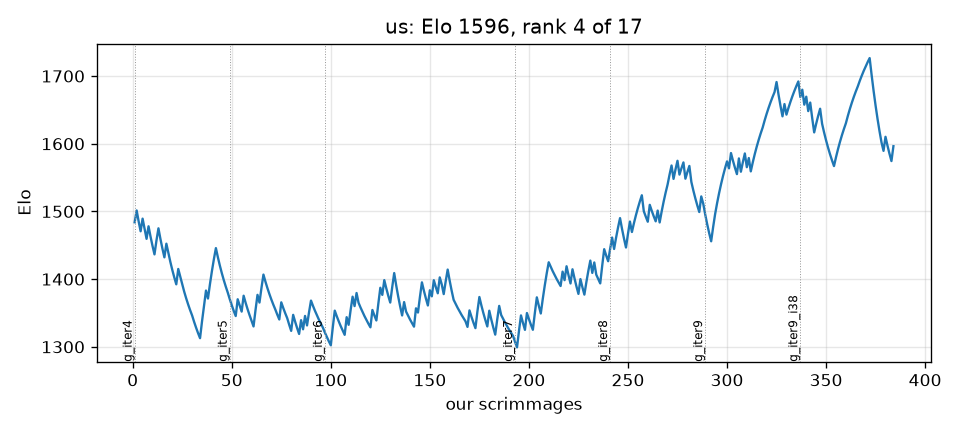
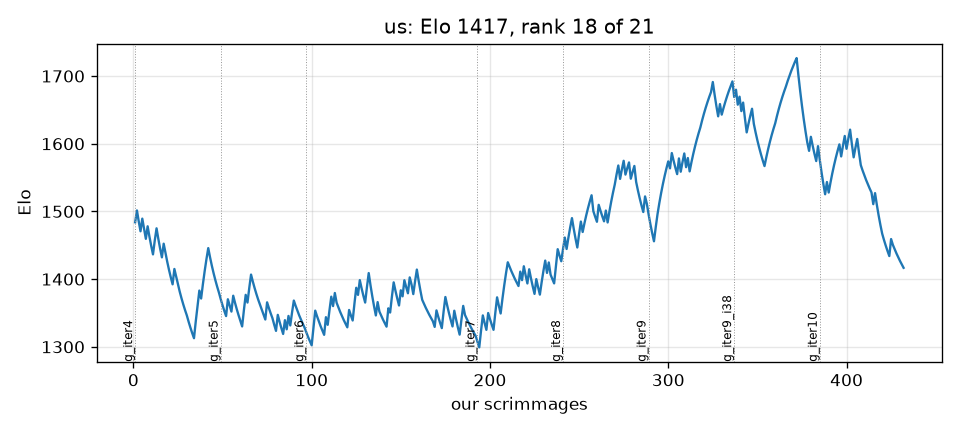
g_iter10 ladder: 5/24 on the shared four, identical to g_iter9
The block reads 15/48 against the previous 54.2%, and almost none of that is
the bot: against the four opponents present in both blocks the record is
identical at 5/24, with Scott-Poole and rqi3 up one each and rzhan11 down
two. The headline drop is the field, whose newcomers went 10/24 here against
a previous batch that included two swept 6-0.

So Iteration 40 is a 63.5% mirror accept with no measurable ladder effect,
which is now three of the last four accepts. The gate and the contest signal
are diverging and that is the method's main open problem.

This block also exposes a measurement flaw: with a rotating pool the
intersection between consecutive blocks changes, so those per-block rates
cannot be chained. Either hold the rated half fixed or compare on Elo.

Claude-Session: https://claude.ai/code/session_01VgeNHsn9ncLsLui8RaK6L7

diff --git a/BENCHMARK.md b/BENCHMARK.md
@@ -117,7 +117,7 @@ above the 20% line, so every bot we have played may be reviewed.
 | `BSreenivas0713.auxMusketeerPlayer` | BSreenivas0713_Battlecode2021 (d24af14) | - | - | untested |  |
 | `BSreenivas0713.ecs` | BSreenivas0713_Battlecode2021 (d24af14) | - | - | untested |  |
 | `BSreenivas0713.musketeerPlayer` | BSreenivas0713_Battlecode2021 (d24af14) | - | - | untested |  |
-| `BSreenivas0713.musketeerplayerfinal` | BSreenivas0713_Battlecode2021 (d24af14) | 0 | 5 | locked | 0 0 0 |
+| `BSreenivas0713.musketeerplayerfinal` | BSreenivas0713_Battlecode2021 (d24af14) | 17 | 6 | locked | 0 0 0 17 |
 | `BSreenivas0713.musketeerplayerjan8` | BSreenivas0713_Battlecode2021 (d24af14) | - | - | untested |  |
 | `BSreenivas0713.musketeerplayerpostqual` | BSreenivas0713_Battlecode2021 (d24af14) | - | - | untested |  |
 | `BSreenivas0713.musketeerplayerqual` | BSreenivas0713_Battlecode2021 (d24af14) | - | - | untested |  |
@@ -147,7 +147,7 @@ above the 20% line, so every bot we have played may be reviewed.
 | `ChiragKalra.gen2` | ChiragKalra_battlecode (ad1373f) | - | - | untested |  |
 | `ChiragKalra.gen3` | ChiragKalra_battlecode (ad1373f) | - | - | untested |  |
 | `ChiragKalra.gen4` | ChiragKalra_battlecode (ad1373f) | - | - | untested |  |
-| `ChiragKalra.gen5` | ChiragKalra_battlecode (ad1373f) | 71 | 14 | peer | 71 |
+| `ChiragKalra.gen5` | ChiragKalra_battlecode (ad1373f) | 100 | 6 | peer(>90 once) | 71 100 |
 | `IvanGeffner.thirtyone` | IvanGeffner_battlecode2021 (1471e6a) | 0 | 6 | locked | 0 0 0 |
 | `JCRaymond.bot.tournament.sprint` | JCRaymond_battlecode-2021 (14e4015) | 100 | 6 | peer(>90 once) | 100 |
 | `JCRaymond.donothingbot` | JCRaymond_battlecode-2021 (14e4015) | - | - | untested |  |
@@ -171,7 +171,7 @@ above the 20% line, so every bot we have played may be reviewed.
 | `OliverMKing.oliverrushbot2` | OliverMKing_battlecode-2021 (14e4015) | - | - | untested |  |
 | `OliverMKing.templatebot` | OliverMKing_battlecode-2021 (14e4015) | - | - | untested |  |
 | `SLaGrave.AlphaCentauri` | SLaGrave_battlecode21 (9ae0ff4) | 100 | 6 | peer(>90 once) | 100 |
-| `Scott-Poole.spright8` | Scott-Poole_battlecode21 (57f898a) | 50 | 6 | peer | 7 12 39 17 25 50 33 33 50 |
+| `Scott-Poole.spright8` | Scott-Poole_battlecode21 (57f898a) | 67 | 6 | peer | 7 12 39 17 25 50 33 33 50 67 |
 | `Sihal3.cavShieldv05` | Sihal3_cavshield (7a90425) | - | - | untested |  |
 | `Sihal3.cavShieldv1` | Sihal3_cavshield (7a90425) | - | - | untested |  |
 | `Sihal3.cavShieldv2` | Sihal3_cavshield (7a90425) | - | - | untested |  |
@@ -216,7 +216,7 @@ above the 20% line, so every bot we have played may be reviewed.
 | `TylerQube.sandmenplayer` | TylerQube_sandmen-battlecode21 (522a5fe) | 100 | 6 | peer(>90 once) | 100 |
 | `Victoriano012.SprintBot2` | Victoriano012_BattleCode-2021 (2517f10) | 17 | 6 | locked | 14 38 17 |
 | `VittalT.donothingplayer` | VittalT_Battlecode2021-EZMoney (49bc713) | - | - | untested |  |
-| `VittalT.final_usqualplayer3_subm` | VittalT_Battlecode2021-EZMoney (49bc713) | 17 | 6 | locked | 7 12 17 |
+| `VittalT.final_usqualplayer3_subm` | VittalT_Battlecode2021-EZMoney (49bc713) | 33 | 6 | target | 7 12 17 33 |
 | `VittalT.pathtestingplayer` | VittalT_Battlecode2021-EZMoney (49bc713) | - | - | untested |  |
 | `VittalT.simpleplayer1` | VittalT_Battlecode2021-EZMoney (49bc713) | - | - | untested |  |
 | `VittalT.simpleplayer2` | VittalT_Battlecode2021-EZMoney (49bc713) | - | - | untested |  |
@@ -291,7 +291,7 @@ above the 20% line, so every bot we have played may be reviewed.
 | `awesomelemonade.pdefense2` | awesomelemonade_battlecode-2021 (e9c4afc) | - | - | untested |  |
 | `awesomelemonade.ppbot` | awesomelemonade_battlecode-2021 (e9c4afc) | - | - | untested |  |
 | `awesomelemonade.spreadout` | awesomelemonade_battlecode-2021 (e9c4afc) | - | - | untested |  |
-| `awesomelemonade.sprint1bot` | awesomelemonade_battlecode-2021 (e9c4afc) | 0 | 6 | locked | 0 25 0 0 0 17 33 0 |
+| `awesomelemonade.sprint1bot` | awesomelemonade_battlecode-2021 (e9c4afc) | 0 | 6 | locked | 0 25 0 0 0 17 33 0 0 |
 | `awesomelemonade.trollbigps` | awesomelemonade_battlecode-2021 (e9c4afc) | - | - | untested |  |
 | `awesomelemonade.v1_10` | awesomelemonade_battlecode-2021 (e9c4afc) | - | - | untested |  |
 | `awesomelemonade.waves` | awesomelemonade_battlecode-2021 (e9c4afc) | - | - | untested |  |
@@ -350,7 +350,7 @@ above the 20% line, so every bot we have played may be reviewed.
 | `iyzg.sbot14` | iyzg_battlecode21 (13595c5) | - | - | untested |  |
 | `iyzg.sbot15` | iyzg_battlecode21 (13595c5) | - | - | untested |  |
 | `iyzg.sbot16` | iyzg_battlecode21 (13595c5) | - | - | untested |  |
-| `iyzg.sbot17` | iyzg_battlecode21 (13595c5) | 17 | 6 | locked | 7 12 17 |
+| `iyzg.sbot17` | iyzg_battlecode21 (13595c5) | 17 | 6 | locked | 7 12 17 17 |
 | `iyzg.sbot2` | iyzg_battlecode21 (13595c5) | - | - | untested |  |
 | `iyzg.sbot3` | iyzg_battlecode21 (13595c5) | - | - | untested |  |
 | `iyzg.sbot4` | iyzg_battlecode21 (13595c5) | - | - | untested |  |
@@ -510,7 +510,7 @@ above the 20% line, so every bot we have played may be reviewed.
 | `rqi3.pathfindingtest` | rqi3_battlecode-2021 (f59941b) | - | - | untested |  |
 | `rqi3.pold` | rqi3_battlecode-2021 (f59941b) | - | - | untested |  |
 | `rqi3.politician_tester` | rqi3_battlecode-2021 (f59941b) | - | - | untested |  |
-| `rqi3.qualification_bot` | rqi3_battlecode-2021 (f59941b) | 0 | 6 | locked | 0 0 0 |
+| `rqi3.qualification_bot` | rqi3_battlecode-2021 (f59941b) | 17 | 6 | locked | 0 0 0 17 |
 | `ryanbai1412.antimuckrush` | ryanbai1412_Battlecode2021 (2ffbfa8) | - | - | untested |  |
 | `ryanbai1412.eco` | ryanbai1412_Battlecode2021 (2ffbfa8) | - | - | untested |  |
 | `ryanbai1412.sprint_0` | ryanbai1412_Battlecode2021 (2ffbfa8) | 17 | 6 | locked | 0 17 |
@@ -518,7 +518,7 @@ above the 20% line, so every bot we have played may be reviewed.
 | `rzhan11.muckspam` | rzhan11_Battlecode2021 (f21c274) | - | - | untested |  |
 | `rzhan11.newday` | rzhan11_Battlecode2021 (f21c274) | - | - | untested |  |
 | `rzhan11.sprint` | rzhan11_Battlecode2021 (f21c274) | - | - | untested |  |
-| `rzhan11.sprint2` | rzhan11_Battlecode2021 (f21c274) | 33 | 6 | target | 0 11 0 8 33 17 33 33 |
+| `rzhan11.sprint2` | rzhan11_Battlecode2021 (f21c274) | 0 | 6 | locked | 0 11 0 8 33 17 33 33 0 |
 | `rzhan11.template` | rzhan11_Battlecode2021 (f21c274) | - | - | untested |  |
 | `rzhan11.wander_defense` | rzhan11_Battlecode2021 (f21c274) | - | - | untested |  |
 | `saivivekvenna.Ba_ba_booie` | saivivekvenna_BattleCode-2021 (636ec61) | 100 | 6 | peer(>90 once) | 100 |

diff --git a/progress/ELO.md b/progress/ELO.md
@@ -1,25 +1,29 @@
 # Elo ladder
 
-384 scrimmages (ours only); K=32 from 1500; our team is **us**: rank 4 of 17 rated bots, Elo 1596, 384 games; 49 bots not yet met.
+432 scrimmages (ours only); K=32 from 1500; our team is **us**: rank 18 of 21 rated bots, Elo 1417, 432 games; 45 bots not yet met.
 
 | rank | bot | Elo | games | W-L (theirs) |
 |---|---|---|---|---|
-| 1 | awesomelemonade.sprint1bot | 1763 | 48 | 44-4 |
-| 2 | rzhan11.sprint2 | 1689 | 48 | 40-8 |
-| 3 | rqi3.qualification_bot | 1625 | 6 | 6-0 |
-| 4 | **us** | 1596 | 384 | 158-226 |
-| 5 | Scott-Poole.spright8 | 1560 | 48 | 32-16 |
-| 6 | StoneT2000.sprinttuna | 1531 | 6 | 3-3 |
-| 7 | jmerle.camel_case_v7_sprint_2 | 1463 | 48 | 26-22 |
-| 8 | naalit.mukrush | 1458 | 6 | 0-6 |
-| 9 | unai-gurbindo.camelmanplayer | 1451 | 6 | 0-6 |
-| 10 | raytran.dlmoreram010921 | 1448 | 6 | 0-6 |
-| 11 | jjtippetts.influencerforceplayer | 1437 | 6 | 0-6 |
-| 12 | qawsedrftgzh.battlecode2021 | 1435 | 6 | 0-6 |
-| 13 | iliao2345.attacker | 1429 | 36 | 22-14 |
-| 14 | astelmach20.piedPiper | 1422 | 6 | 0-6 |
-| 15 | 123kevinlee.atomFinalQualifier | 1414 | 36 | 21-15 |
-| 16 | max-titov.sprintplayer | 1411 | 36 | 16-20 |
-| 17 | arya-k.quals_v1 | 1369 | 36 | 16-20 |
+| 1 | awesomelemonade.sprint1bot | 1803 | 54 | 50-4 |
+| 2 | rzhan11.sprint2 | 1723 | 54 | 46-8 |
+| 3 | rqi3.qualification_bot | 1641 | 12 | 11-1 |
+| 4 | BSreenivas0713.musketeerplayerfinal | 1569 | 6 | 5-1 |
+| 5 | iyzg.sbot17 | 1561 | 6 | 5-1 |
+| 6 | VittalT.final_usqualplayer3_subm | 1552 | 6 | 4-2 |
+| 7 | Scott-Poole.spright8 | 1538 | 54 | 34-20 |
+| 8 | StoneT2000.sprinttuna | 1531 | 6 | 3-3 |
+| 9 | jmerle.camel_case_v7_sprint_2 | 1463 | 48 | 26-22 |
+| 10 | naalit.mukrush | 1458 | 6 | 0-6 |
+| 11 | unai-gurbindo.camelmanplayer | 1451 | 6 | 0-6 |
+| 12 | raytran.dlmoreram010921 | 1448 | 6 | 0-6 |
+| 13 | jjtippetts.influencerforceplayer | 1437 | 6 | 0-6 |
+| 14 | qawsedrftgzh.battlecode2021 | 1435 | 6 | 0-6 |
+| 15 | iliao2345.attacker | 1429 | 36 | 22-14 |
+| 16 | ChiragKalra.gen5 | 1429 | 6 | 0-6 |
+| 17 | astelmach20.piedPiper | 1422 | 6 | 0-6 |
+| 18 | **us** | 1417 | 432 | 173-259 |
+| 19 | 123kevinlee.atomFinalQualifier | 1414 | 36 | 21-15 |
+| 20 | max-titov.sprintplayer | 1411 | 36 | 16-20 |
+| 21 | arya-k.quals_v1 | 1369 | 36 | 16-20 |
 
-Not yet met (1500 until their first game against us): Ahhorse1.WinstonPlayer, Aryan34.bot, Aryo-Patel.finalBot, BSreenivas0713.musketeerplayerfinal, BattlecodeTeam4.robotalpha, BoluAdubi.bot1, BryceKan3.bot.tournament.sprint, ChiragKalra.gen5, IvanGeffner.thirtyone, JCRaymond.bot.tournament.sprint, JasonYe4273.finals, Mahpare.hackatrainee_v1, OliverMKing.bot.tournament.sprint, SLaGrave.AlphaCentauri, Sihal3.cavShieldv705, TeamSerpentine.mars, Techno-coder.muckrakers, TylerQube.sandmenplayer, Victoriano012.SprintBot2, VittalT.final_usqualplayer3_subm, abhishekshree.bot2, aidan-mundy.final_usqualplayer3_subm, alextheimer.player, ama29.v6, angelaloh09.camelmanplayer, anshgs.ho4, davidfang00.Rushbot3, diegorod9000.Newcomer, dominicmkennedy.playerj3, edlwang.sprint2, ehiggins98.initialbot, evan-schott.bugplayer, iyzg.sbot17, jay20162016.ecobot, mama4294.Maloneplayer, mhahn2003.finals, mhbtz1.presprint, mvpatel2000.biden, nickel-dime.piedPiper, nsortur.piedPiper, paulmure.sprintplayer, pranayagra.finalbot11, ryanbai1412.sprint_0, saivivekvenna.Ba_ba_booie, sasank02.framework3_mr_density, thevaliantthird.bot1, winkelmantanner.tannerplayer, woodstockcs.fanandflag, wstan2001.boundfinder
+Not yet met (1500 until their first game against us): Ahhorse1.WinstonPlayer, Aryan34.bot, Aryo-Patel.finalBot, BattlecodeTeam4.robotalpha, BoluAdubi.bot1, BryceKan3.bot.tournament.sprint, IvanGeffner.thirtyone, JCRaymond.bot.tournament.sprint, JasonYe4273.finals, Mahpare.hackatrainee_v1, OliverMKing.bot.tournament.sprint, SLaGrave.AlphaCentauri, Sihal3.cavShieldv705, TeamSerpentine.mars, Techno-coder.muckrakers, TylerQube.sandmenplayer, Victoriano012.SprintBot2, abhishekshree.bot2, aidan-mundy.final_usqualplayer3_subm, alextheimer.player, ama29.v6, angelaloh09.camelmanplayer, anshgs.ho4, davidfang00.Rushbot3, diegorod9000.Newcomer, dominicmkennedy.playerj3, edlwang.sprint2, ehiggins98.initialbot, evan-schott.bugplayer, jay20162016.ecobot, mama4294.Maloneplayer, mhahn2003.finals, mhbtz1.presprint, mvpatel2000.biden, nickel-dime.piedPiper, nsortur.piedPiper, paulmure.sprintplayer, pranayagra.finalbot11, ryanbai1412.sprint_0, saivivekvenna.Ba_ba_booie, sasank02.framework3_mr_density, thevaliantthird.bot1, winkelmantanner.tannerplayer, woodstockcs.fanandflag, wstan2001.boundfinder

diff --git a/TRAINING_LOG.md b/TRAINING_LOG.md
@@ -4158,3 +4158,46 @@ ending a game with zero slanderers, no threat detected and 71,010 influence
 banked -- which I logged as a separate lead rather than folding into the change
 under test. Reading the build code for an explanation produced a specific
 candidate, and instrumenting the silent `return` confirmed it in one game.
+
+## `g_iter10` on the ladder: no change against the shared opponents (2026-09-21 03:55 UTC)
+
+Regression **38/40**, identical to `g_iter9`: 32/32 on the four original
+archetypes, both losses to `arch_expand`.
+
+Block: **15/48 (31.2%)** against the previous block's 54.2%. Almost none of that
+is the bot. Against the **four opponents present in both blocks**:
+
+| | shared four |
+|---|---|
+| `g_iter9` | 5/24 (20.8%) |
+| `g_iter10` | **5/24 (20.8%)** |
+
+| opponent | before | after |
+|---|---|---|
+| Scott-Poole.spright8 | 3/6 | 4/6 |
+| rqi3.qualification_bot | 0/6 | 1/6 |
+| awesomelemonade.sprint1bot | 0/6 | 0/6 |
+| rzhan11.sprint2 | 2/6 | **0/6** |
+
+Identical totals, with movement in both directions inside them. The headline
+drop is the field: this block's newcomers went 10/24 against last block's, which
+included two swept 6-0.
+
+**So Iteration 40 is a 63.5% mirror accept with no measurable ladder effect.**
+That is now the pattern for three of the last four accepts, and it is the most
+important open problem with the method: the gate and the contest signal are
+diverging. The gate measures a change against our own past, which is exactly
+what it is for, and the ladder keeps saying that beating our own past is not the
+same as beating them.
+
+**A measurement problem this block exposes.** With a rotating pool, block-to-
+block comparison is only possible on the intersection, and the intersection
+changes every time: `g_iter8` -> `g_iter9` shared four opponents and read
+9/24 -> 11/24; `g_iter9` -> `g_iter10` shared a *different* four and read
+5/24 -> 5/24. Those two numbers cannot be chained. Either the rated half of the
+pool must be held fixed across blocks, or the ladder needs a proper rating-based
+comparison rather than a win count -- which is what Elo is for, and what the
+per-block rate keeps distracting from.
+
+The ladder itself has got much harder. Of nine rated bots above 1450, six beat
+us more often than not, and every exploration block adds another.
